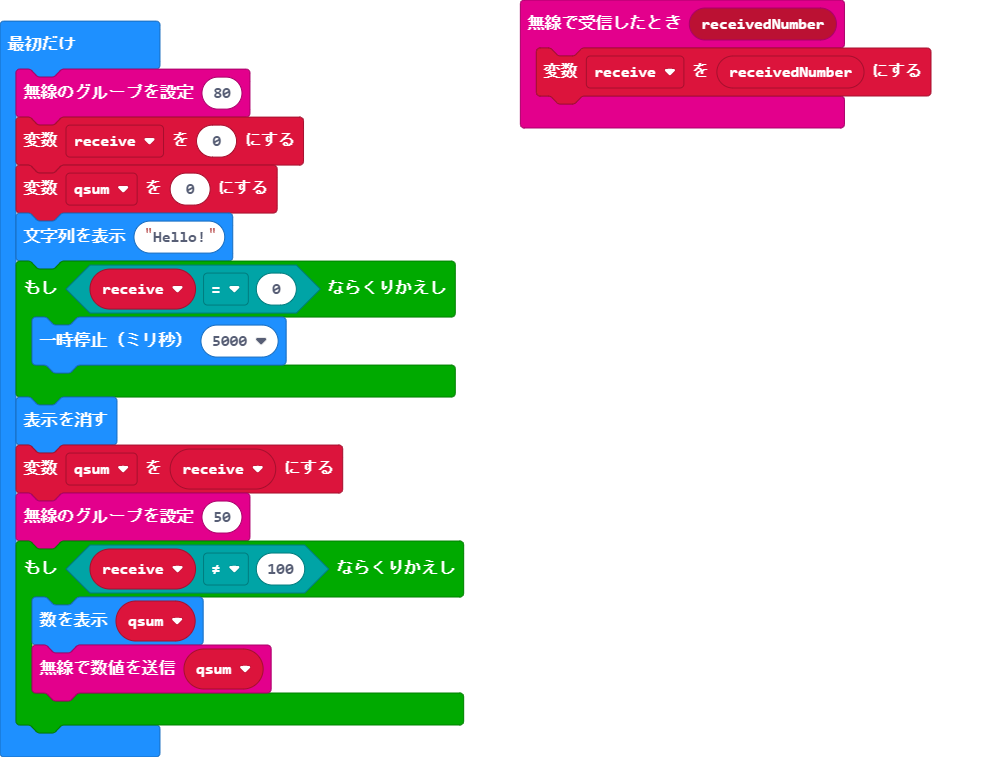
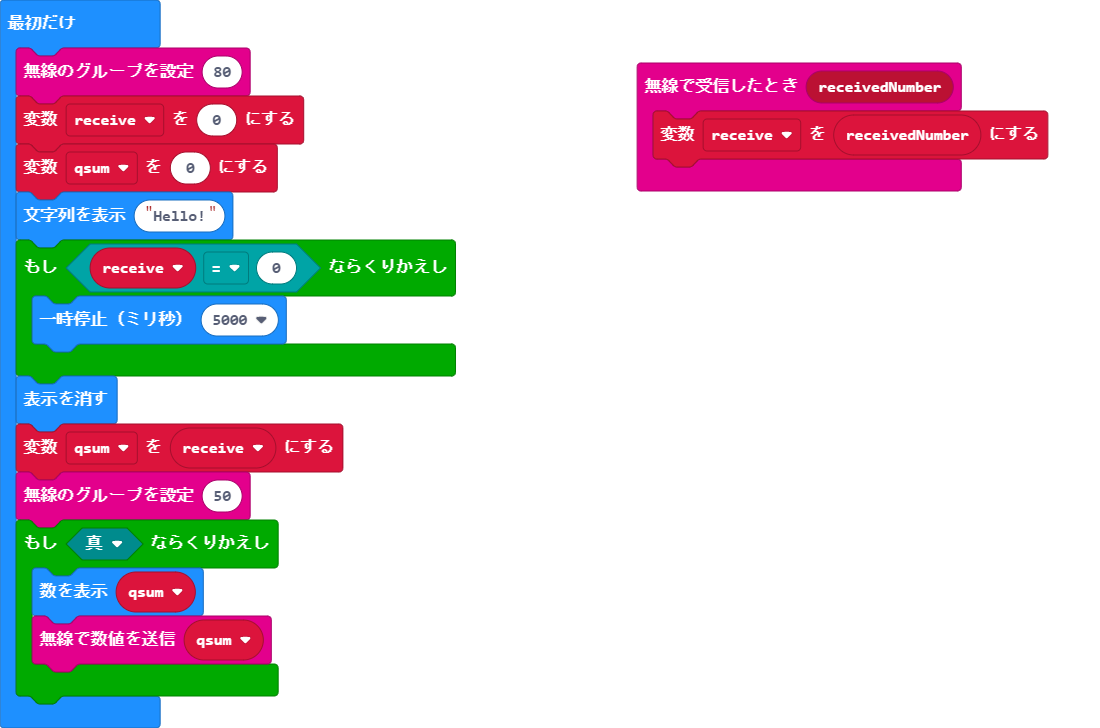
更新 main.blocks, main.ts

Changed region(s): [[0.0, 0.0, 0.4883, 1.0], [0.5188, 0.0, 0.9766, 0.272]]

diff --git a/main.ts b/main.ts
@@ -12,7 +12,7 @@ while (receive == 0) {
 basic.clearScreen()
 qsum = receive
 radio.setGroup(50)
-while (receive != 100) {
+while (true) {
     basic.showNumber(qsum)
     radio.sendNumber(qsum)
 }
